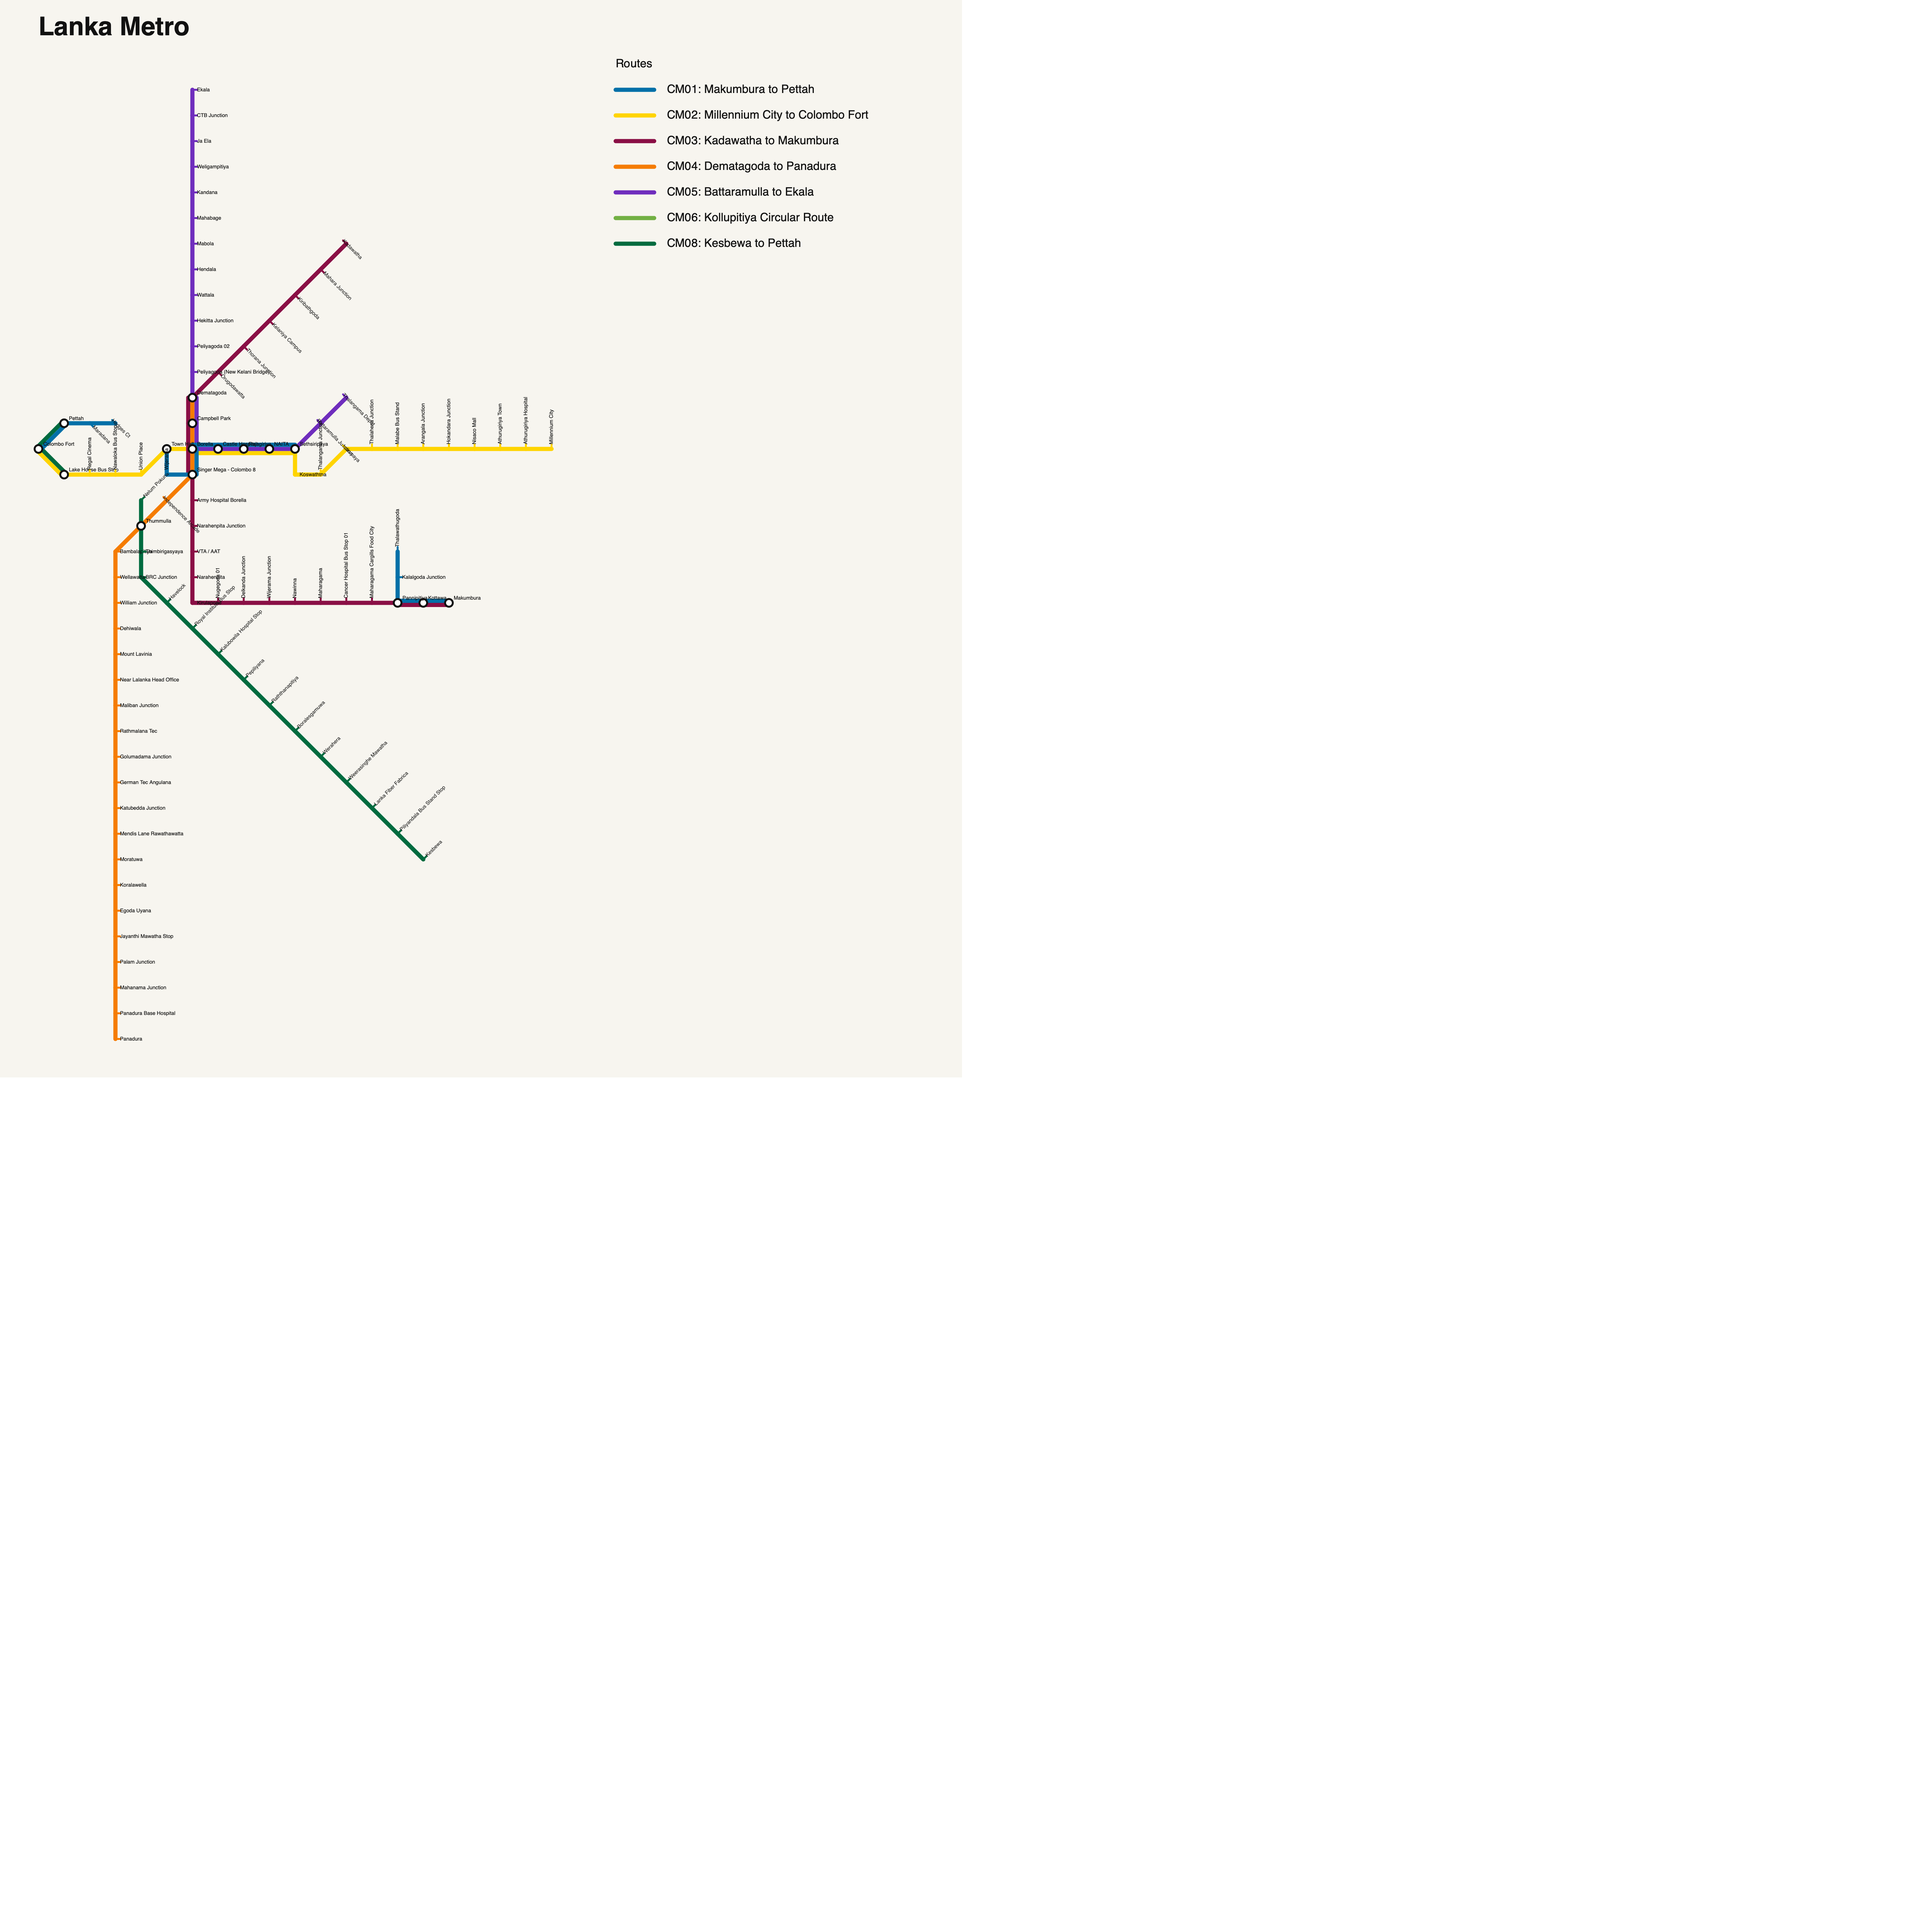
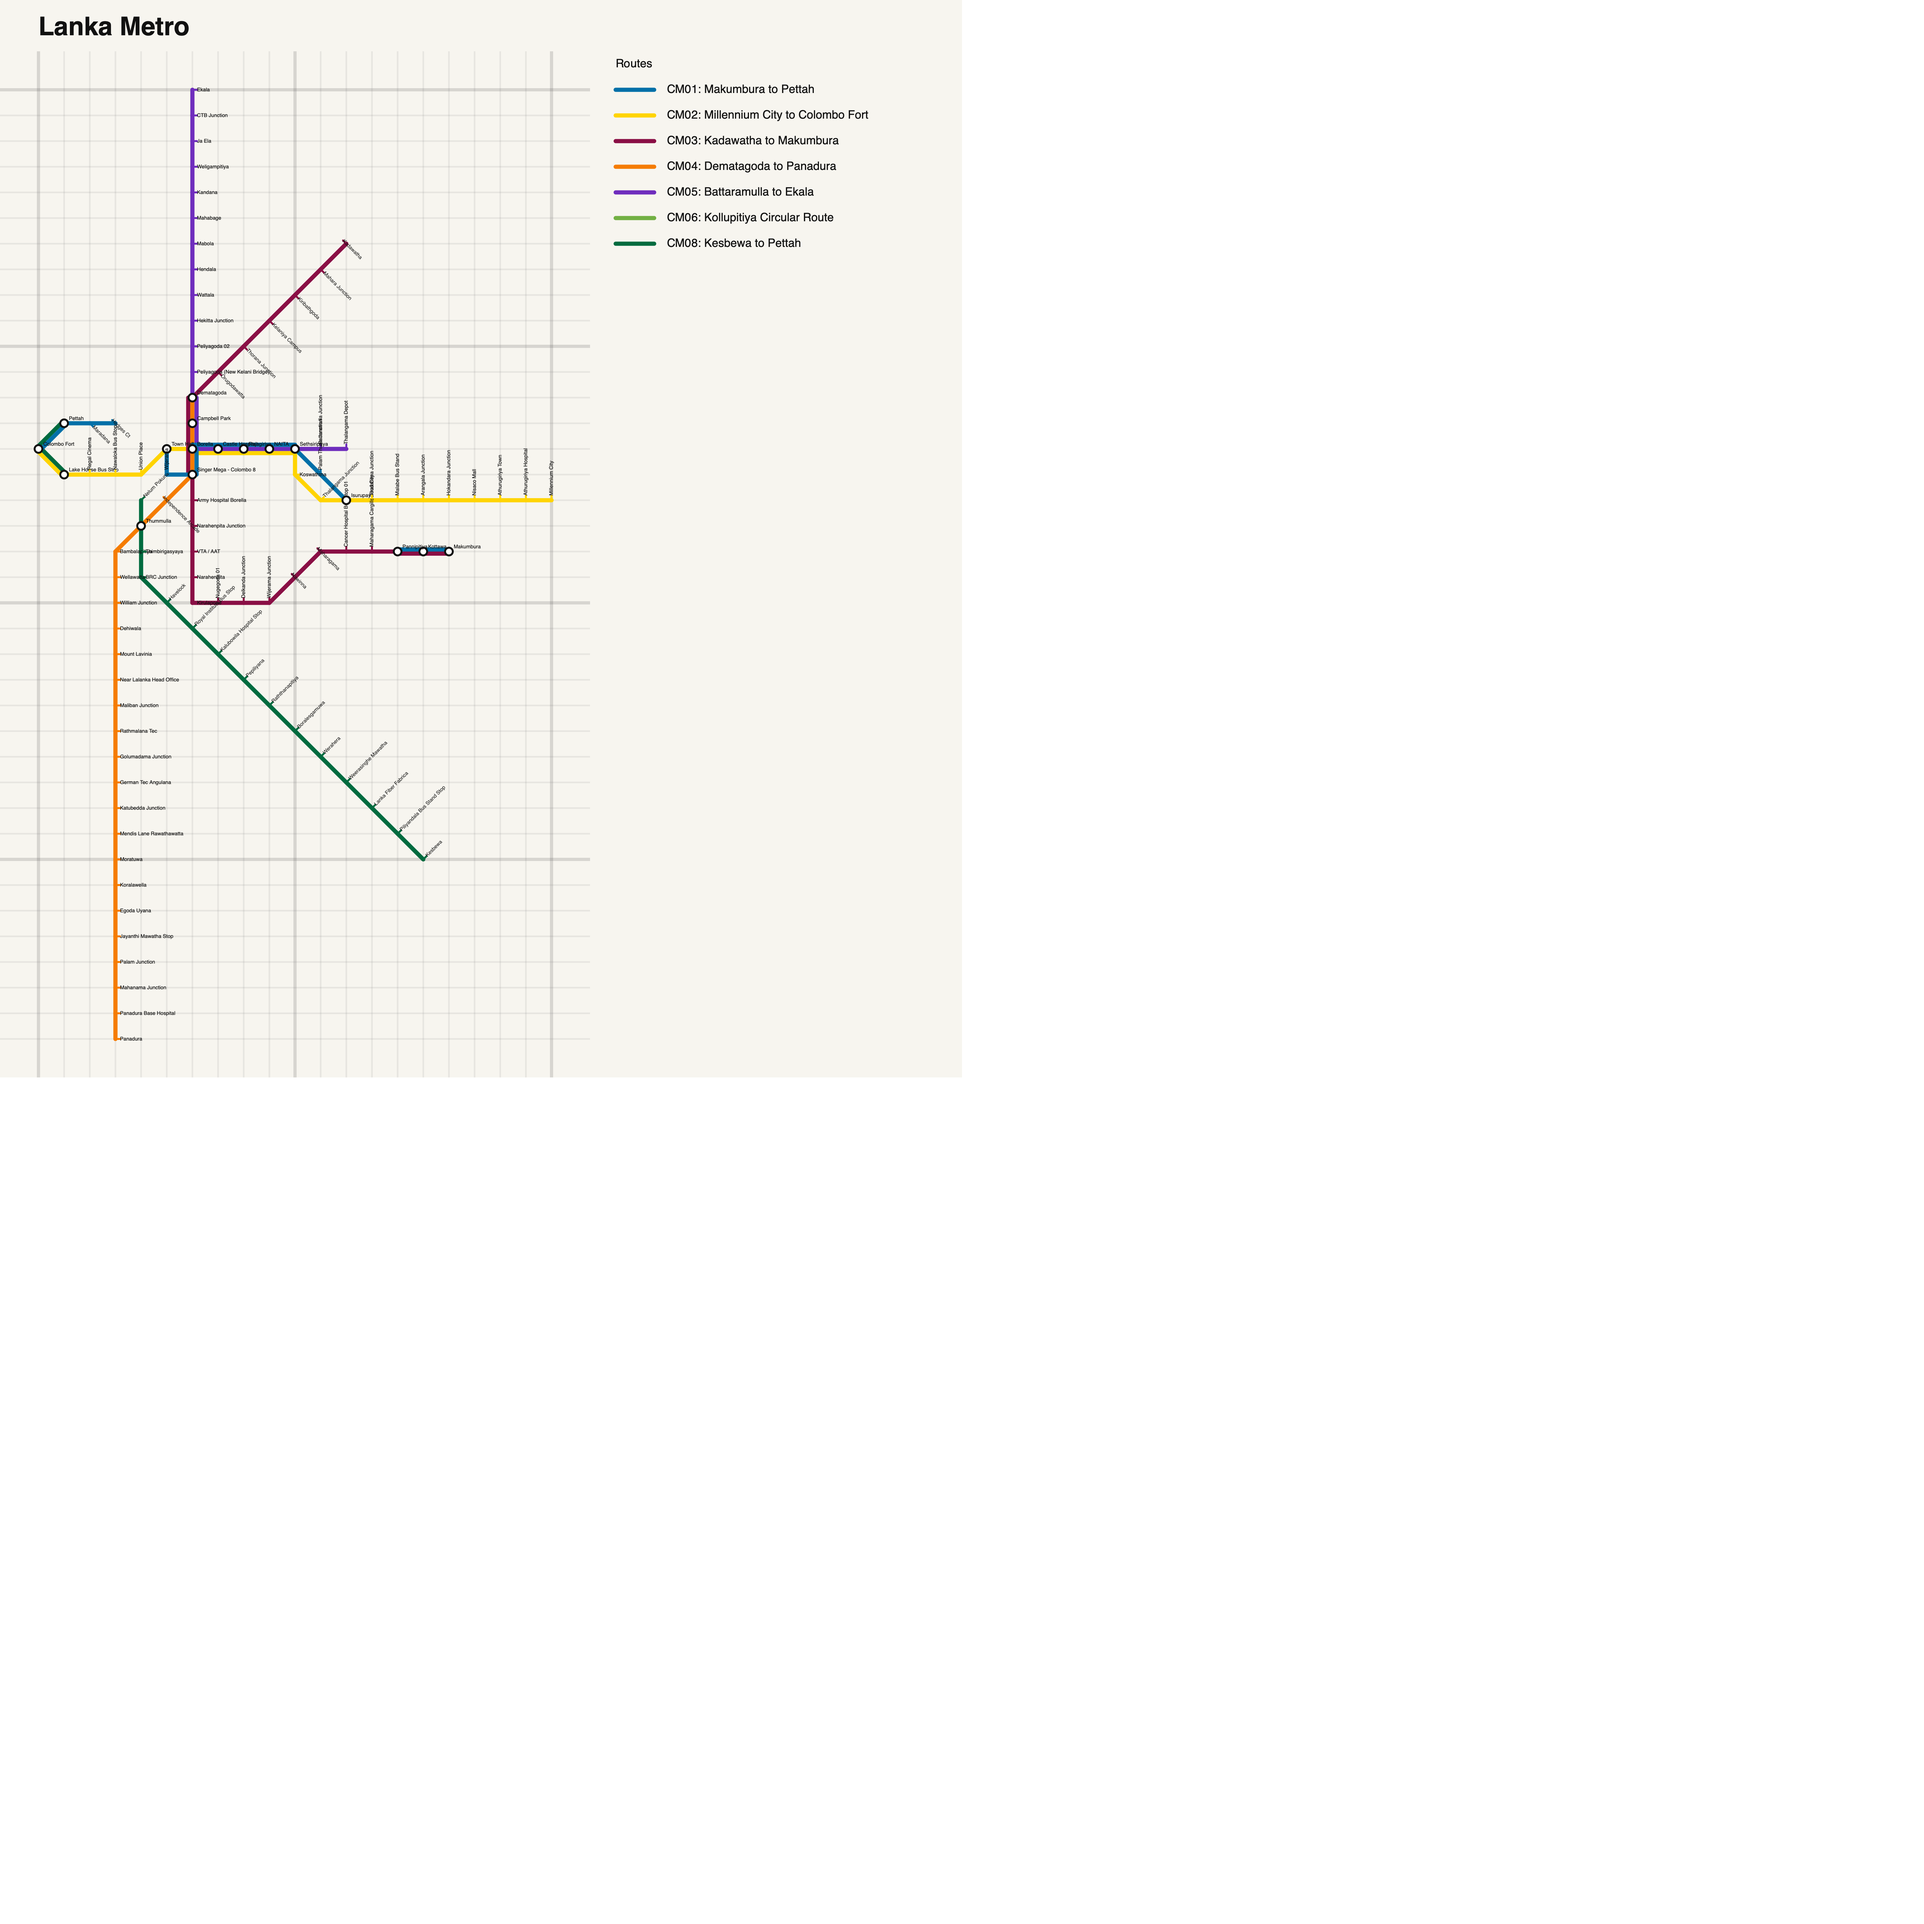
Add grid lines to Harry Beck Diagram SVG output
- Implemented a method to generate SVG lines for a coordinate grid.
- Major grid lines are drawn every 10 units, while minor grid lines are drawn for every unit.
- The grid is defined based on the diagram's logical width and height, adjusted for padding and unit scale.

diff --git a/src/lk_metro/HarryBeckDiagram.py b/src/lk_metro/HarryBeckDiagram.py
@@ -282,4 +282,22 @@ class HarryBeckDiagram(ParallelGeographicDiagram):
 		return projected
 
 	def _grid_svg_lines(self) -> list[str]:
-		return []
+		lines = ['<g class="coordinate-grid">']
+		logical_width = round((self.width - self.padding * 2) / self.UNIT_SCALE)
+		logical_height = round((self.height - self.padding * 2) / self.UNIT_SCALE)
+		for index in range(logical_width + 1):
+			x_coordinate = self.padding + index * self.UNIT_SCALE
+			grid_class = "grid-major" if index % 10 == 0 else "grid-minor"
+			lines.append(
+				f'<line class="{grid_class}" x1="{x_coordinate}" y1="0" '
+				f'x2="{x_coordinate}" y2="{self.height}"/>'
+			)
+		for index in range(logical_height + 1):
+			y_coordinate = self.padding + index * self.UNIT_SCALE
+			grid_class = "grid-major" if index % 10 == 0 else "grid-minor"
+			lines.append(
+				f'<line class="{grid_class}" x1="0" y1="{y_coordinate}" '
+				f'x2="{self.width}" y2="{y_coordinate}"/>'
+			)
+		lines.append("</g>")
+		return lines
